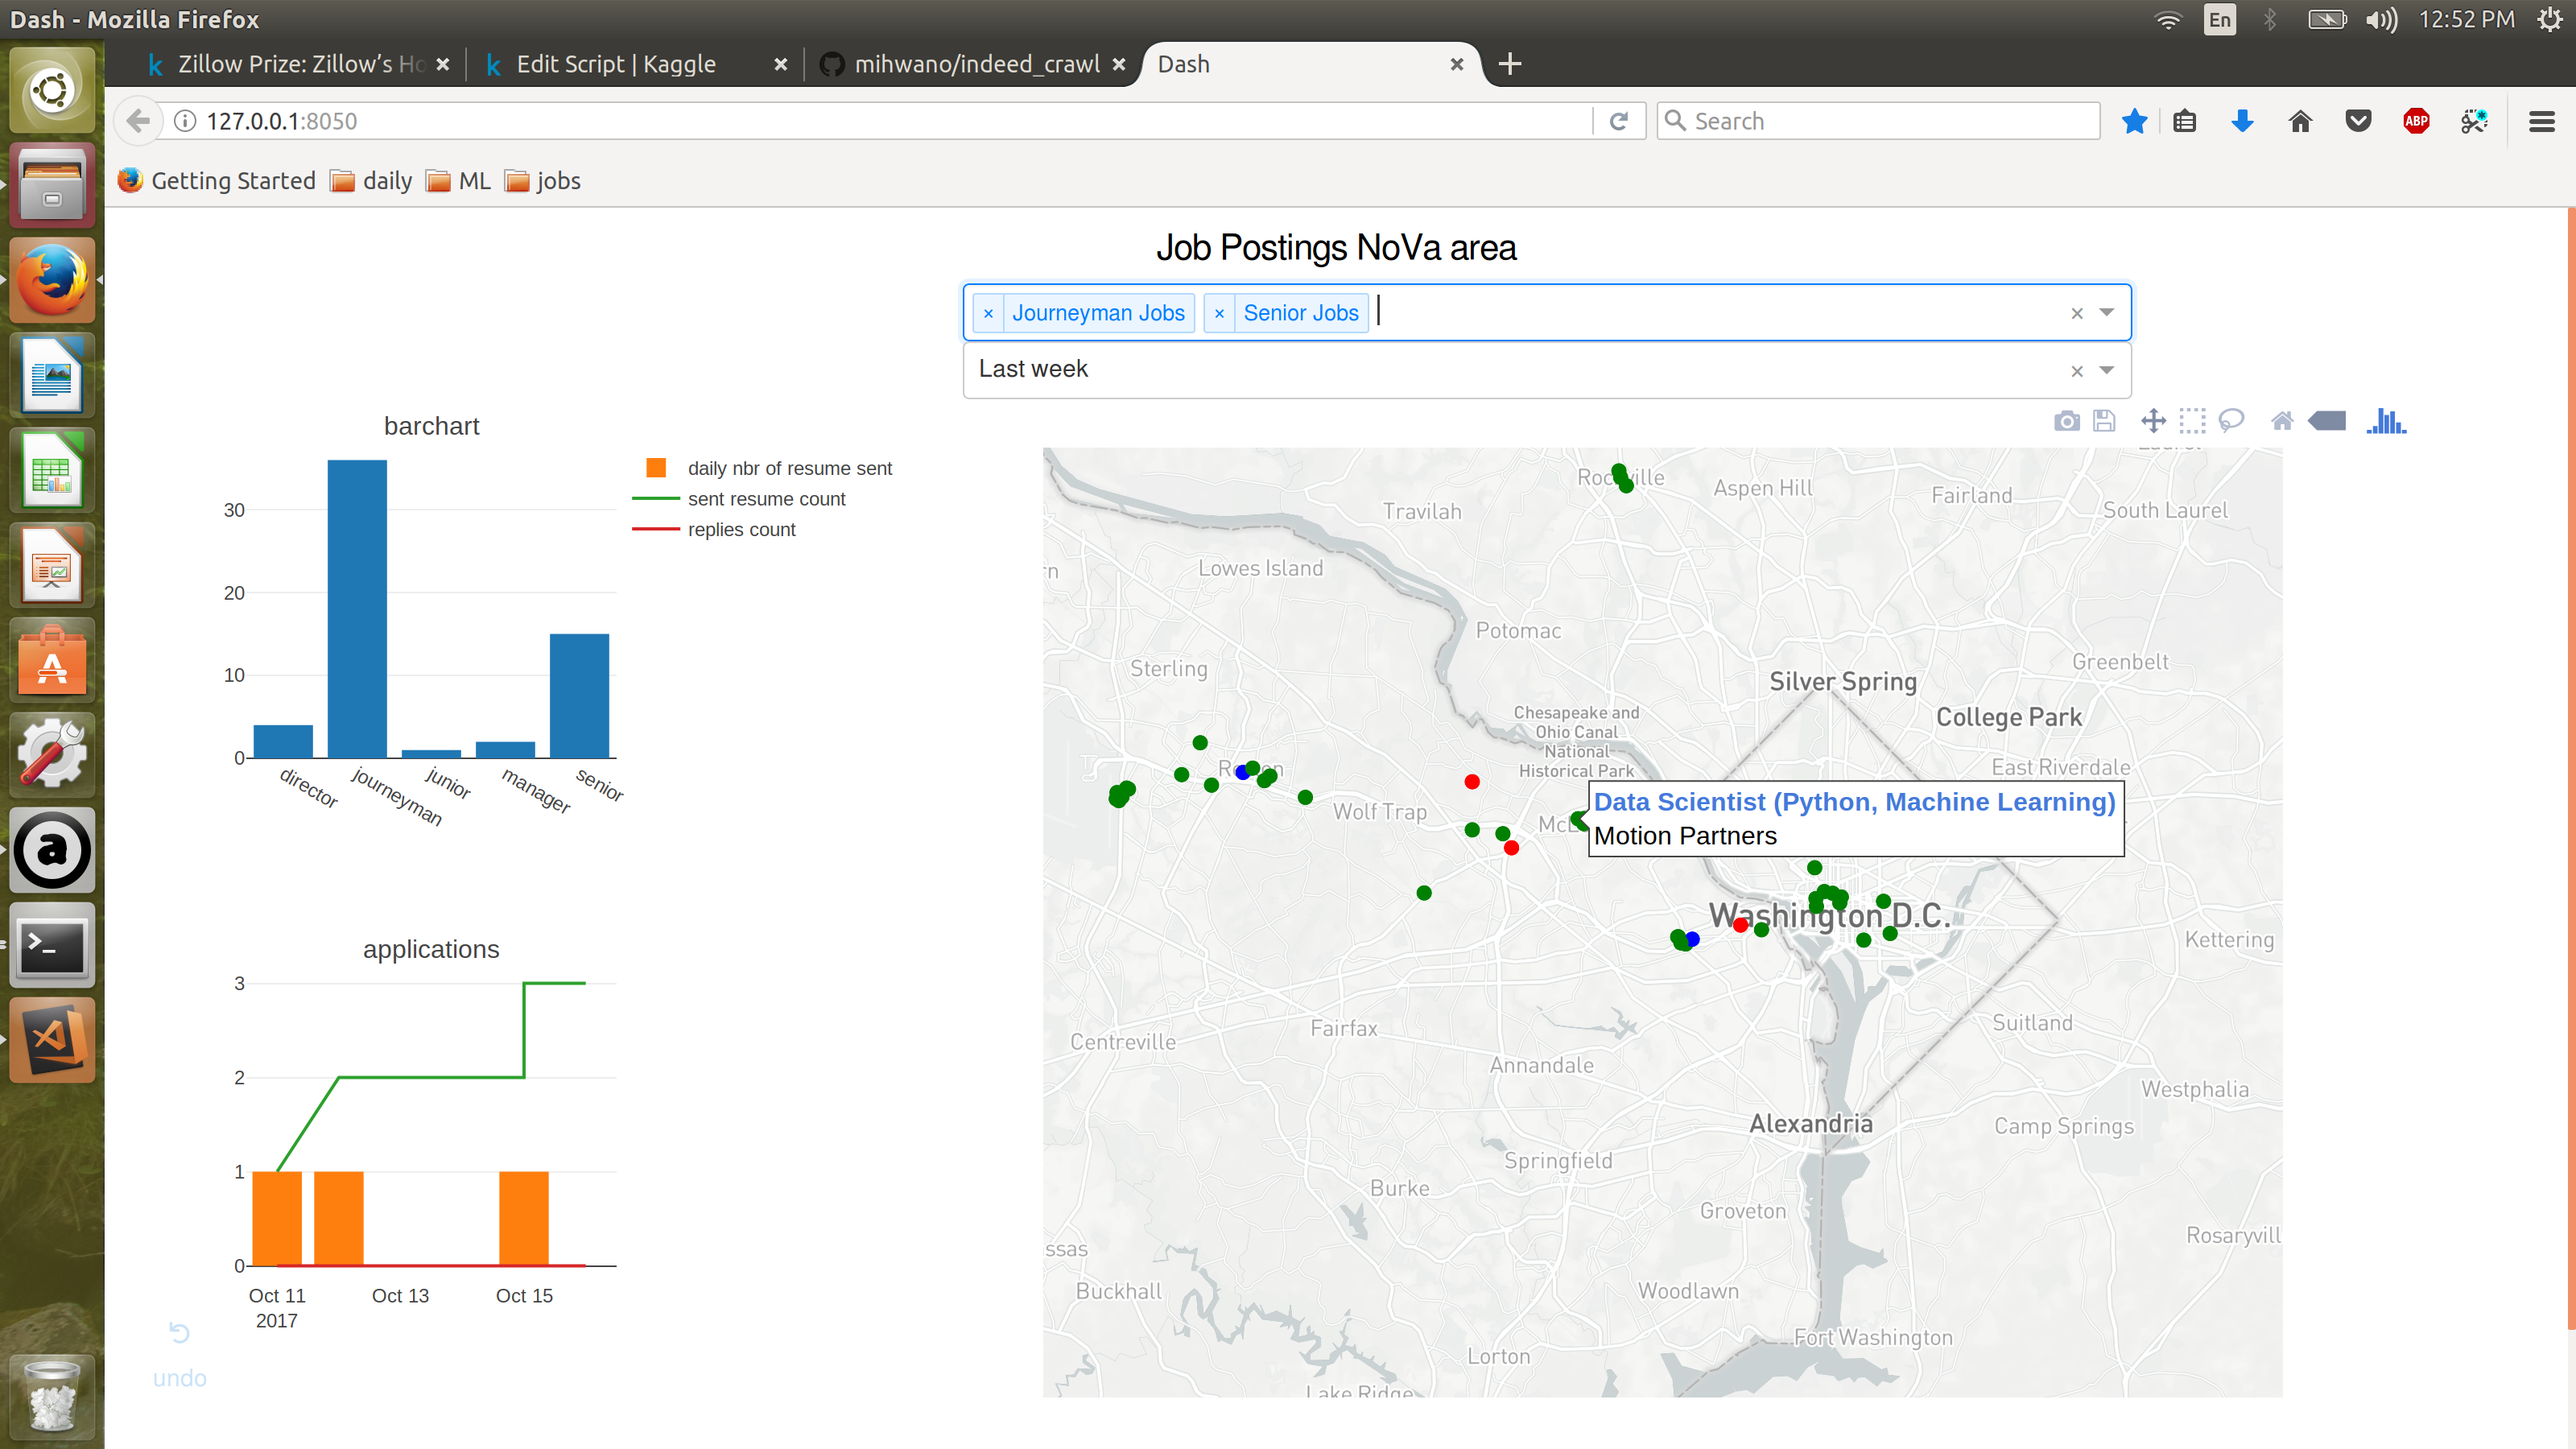
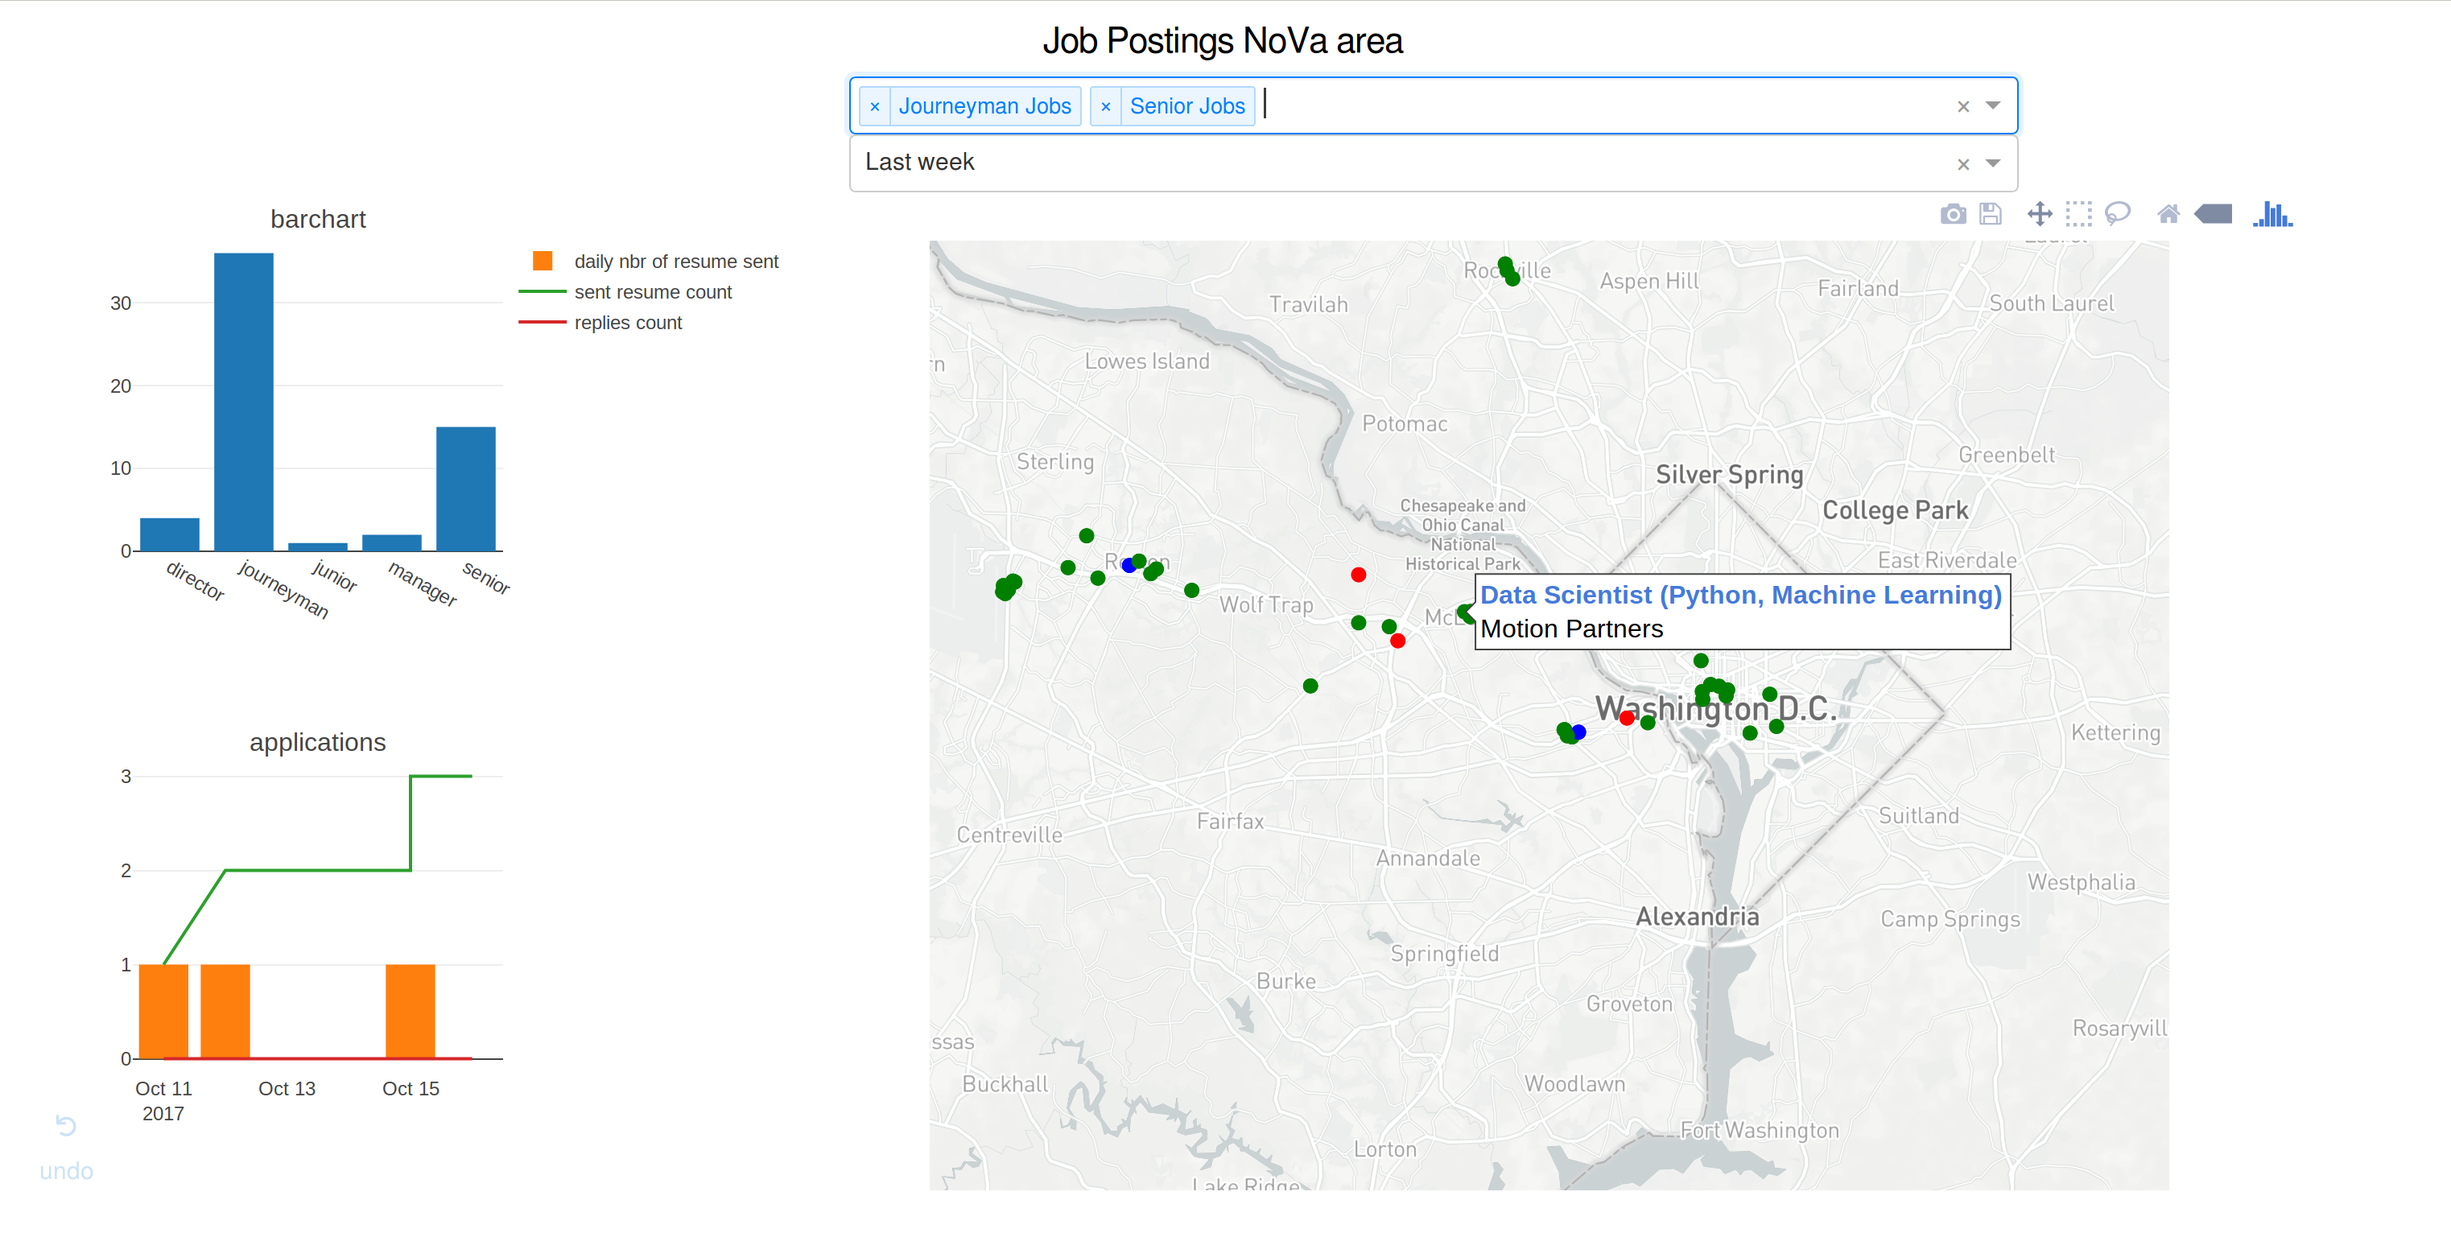
crop png

diff --git a/display.py b/display.py
@@ -92,8 +92,7 @@ def colors(df):
 def applications_counts(col):
     application = df.groupby(["timestamp", col], as_index=False)["job_title"].count()
     application = application[application[col]==True].rename(columns={"job_title":"count"})
-    application = application.drop(col, axis=1)
-    application = pd.merge(df, application, how="left", on="timestamp")
+    application = pd.merge(df, application, how="left", on=["timestamp", col])
     application = application.sort_values("timestamp")
     application["count"] = application["count"].fillna(0)
     apps_count = []

diff --git a/README.md b/README.md
@@ -1,1 +1,1 @@
-![Alt text] (https://github.com/mihwano/indeed_crawl/blob/master/indeed_dash.png)
+Format:![Alt text](https://github.com/mihwano/indeed_crawl/blob/master/indeed_dash.png)
